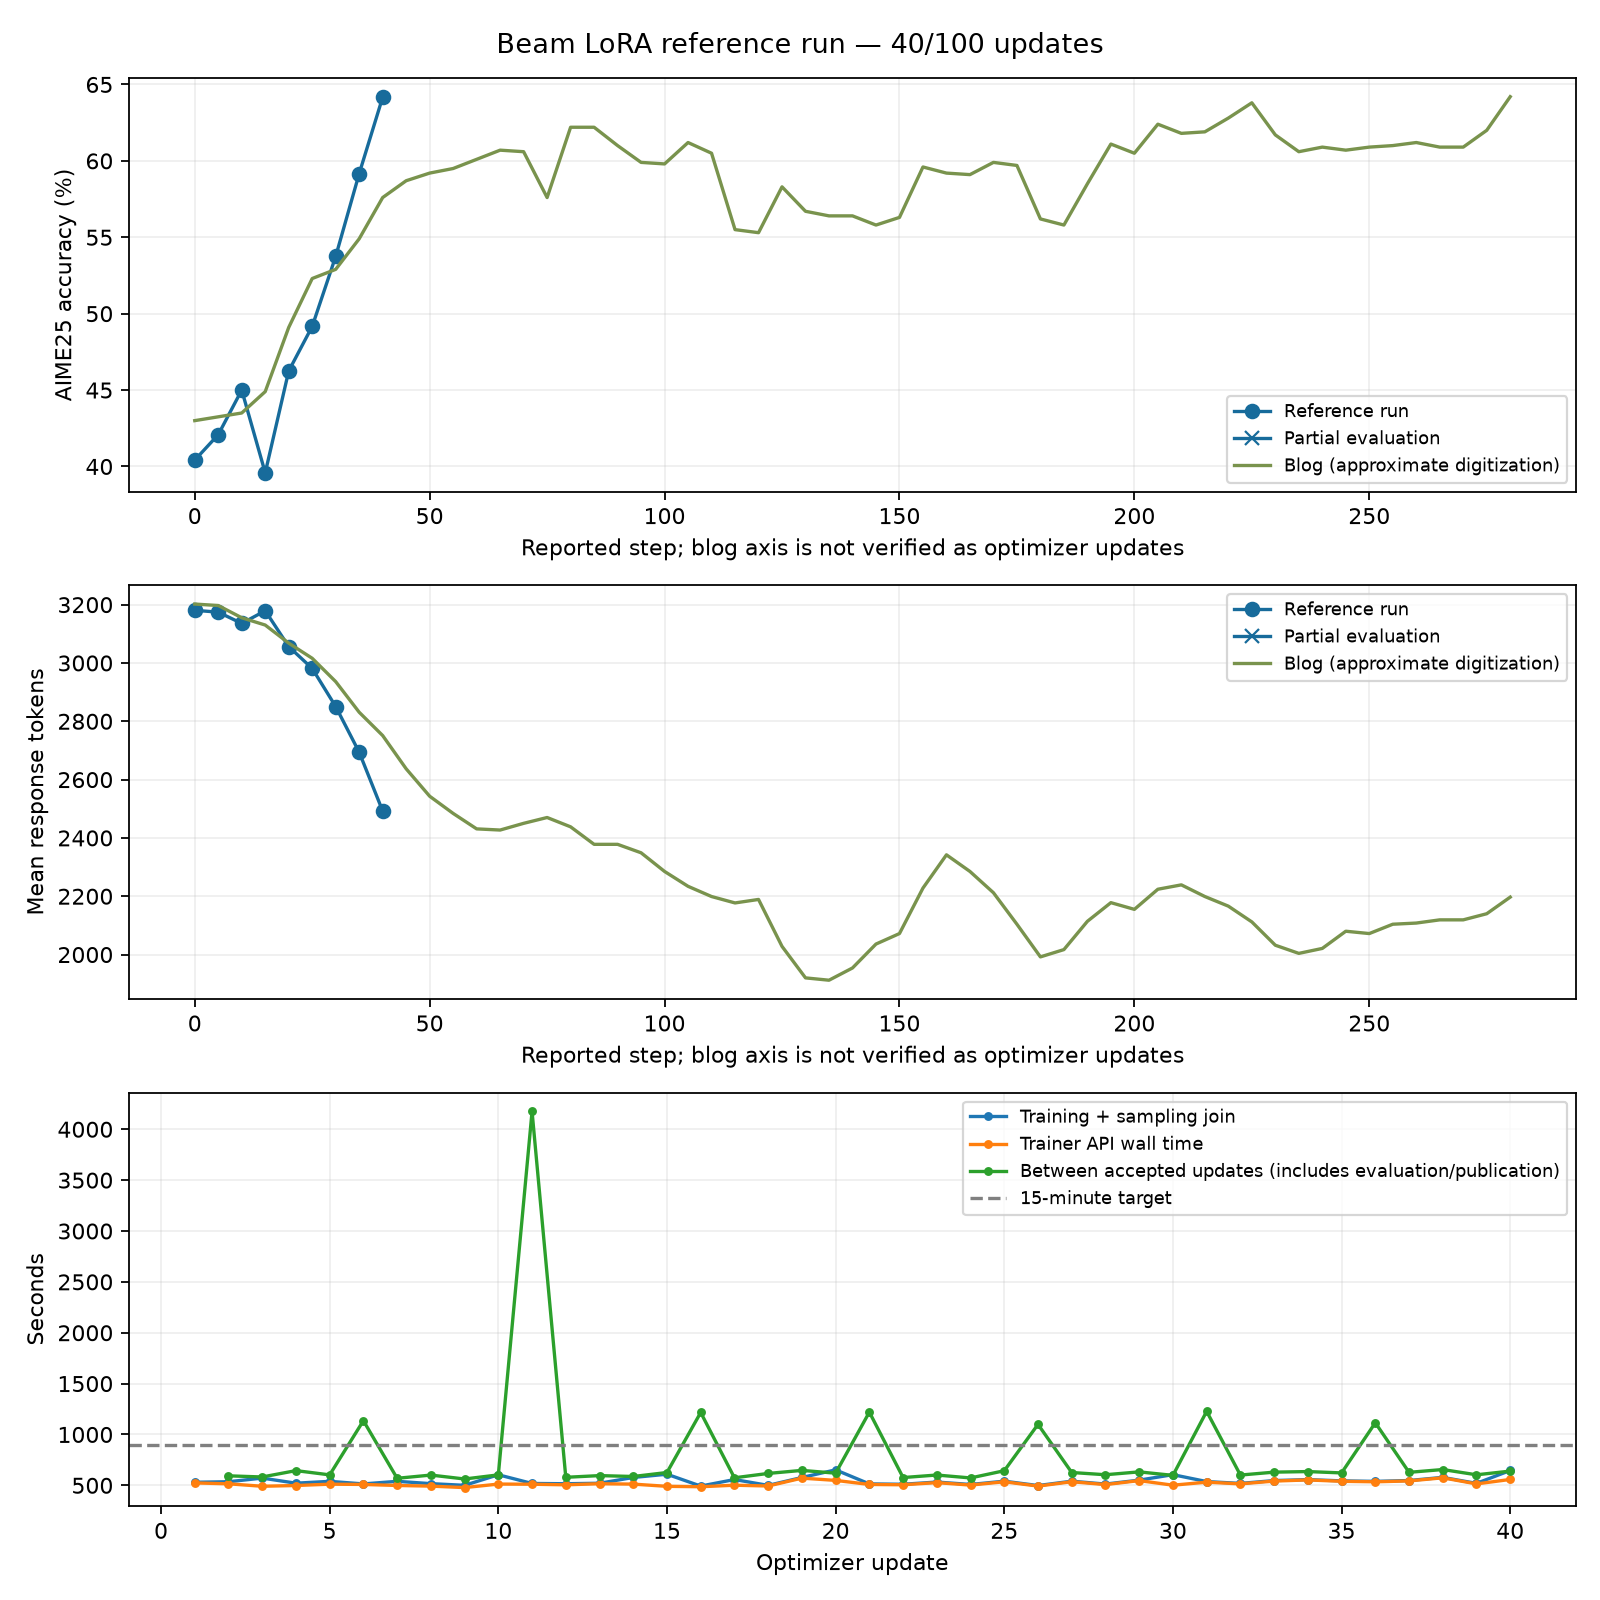
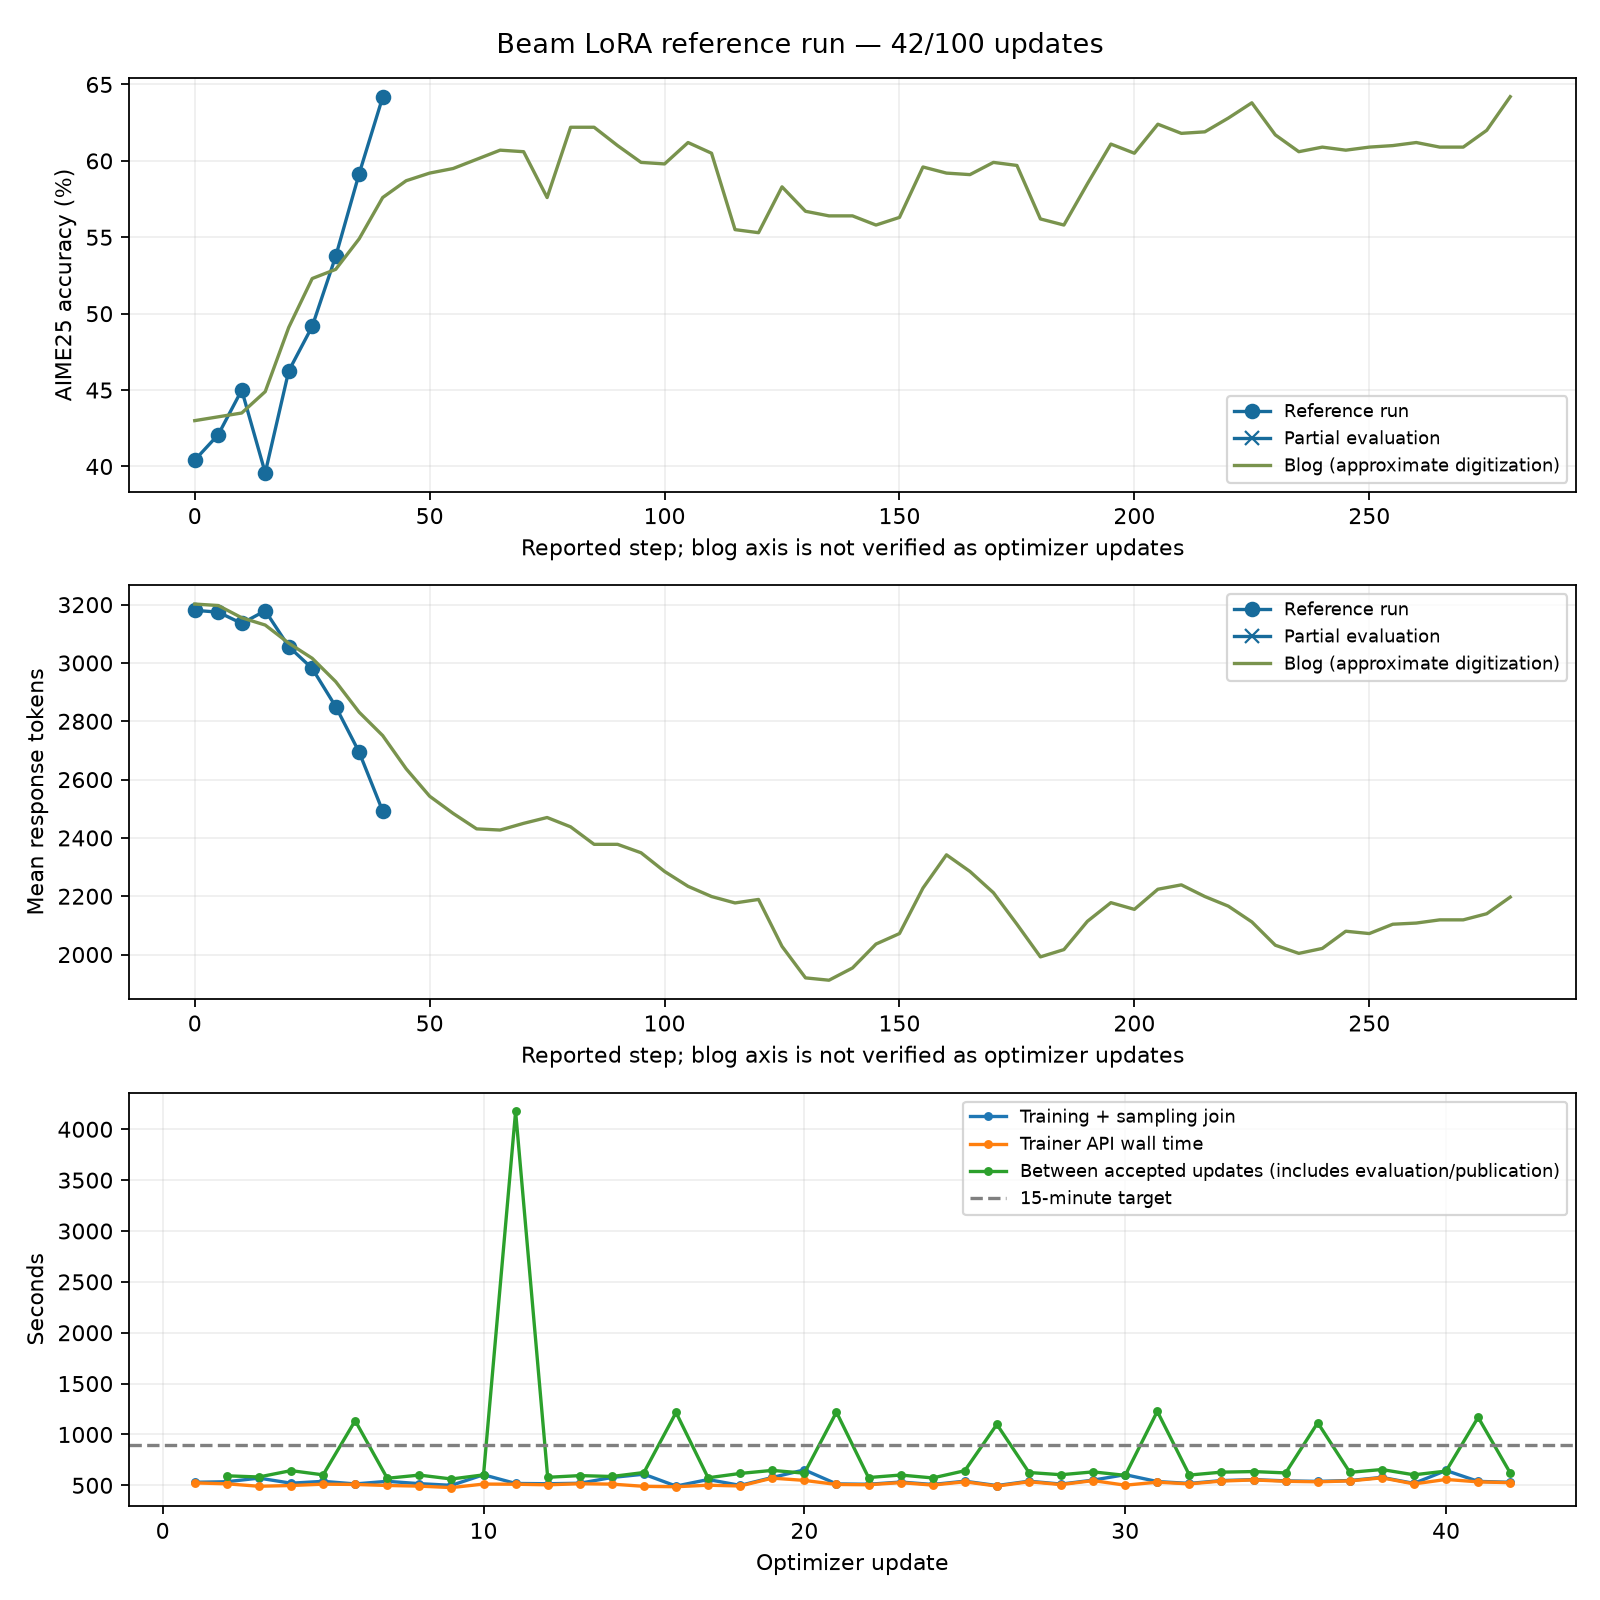
Finalize Beam reference results after stopping at 42 updates

Changed region(s): [[0.1562, 0.6875, 0.9688, 0.9688]]

diff --git a/reference_runs/results/beam/README.md b/reference_runs/results/beam/README.md
@@ -1,0 +1,38 @@
+# Beam LoRA reference run results
+
+This validation stopped after **42 accepted updates**. The latest complete AIME25
+evaluation is update 40; no update-42 accuracy is reported. The originally planned
+100-update learning test was not completed.
+
+| AIME25 evaluation | Accuracy | Mean response tokens |
+| --- | ---: | ---: |
+| Initial | 97/240 (40.42%) | 3,180.54 |
+| Update 40 | 154/240 (64.17%) | 2,492.28 |
+
+Each evaluation uses 30 problems, eight samples per problem and a 4,096-token
+response cap. Independent strict regrading agreed with all 2,160 saved responses
+across nine evaluations. The update-40 accuracy change is +23.75 percentage points,
+with a descriptive paired-problem 95% bootstrap interval of +12.92 to +35.83 points.
+This is an intermediate comparison, not the predeclared update-100 test.
+
+Median time between accepted updates was **621.90 seconds**, including the planned
+cold restart. Median native forward/backward time was 449.40 seconds; median trainer
+API wall time was 513.19 seconds. Wall time through the requested stop was 10.90 hours.
+
+![AIME25 accuracy, response length and update-time comparisons](learning.png)
+
+The green curves are approximate digitizations of the
+[published Beam LoRA run](https://huggingface.co/blog/reflection-beam#train-with-lora).
+Its reported step axis has not been verified as optimizer updates. Hardware and
+orchestration differ; the comparison does not establish parity.
+
+The cold restart at update 10 matched all 1,664 adapter/master/Adam tensors and 221
+non-tensor payloads. The final checkpoint preserves optimizer step 42; the journal
+records the pending policy-41 batch. Update 43 completed backward but was cancelled before optimizer
+submission. Both GPU apps were stopped and had zero remaining containers.
+
+See [run status](run-status.json), [configuration](config.json),
+[deployment provenance](deployment.json), [incremental metrics](metrics.jsonl),
+[summary](summary.json), [cold-restore comparison](restore-comparison-step-0010.json),
+[final checkpoint audit](checkpoint-audit-step-0042.json) and
+[live hardware audit](hardware-audit.json).
